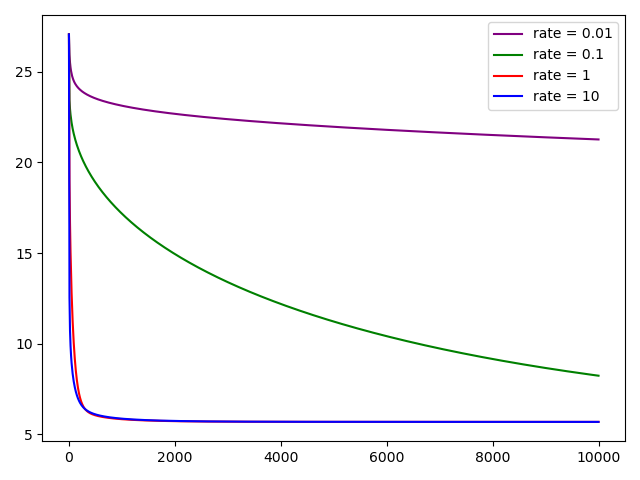
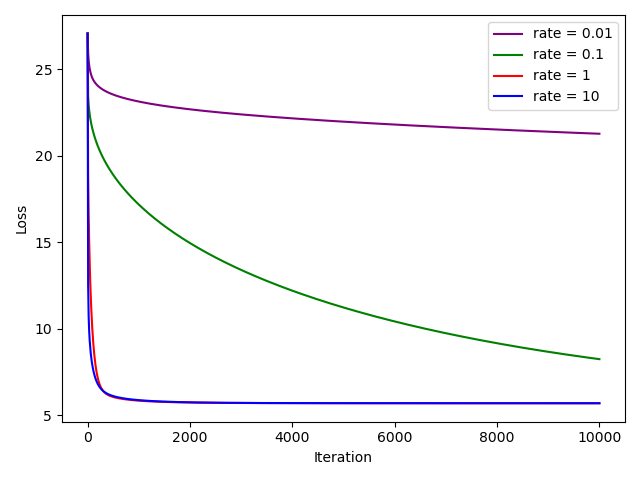
report code

diff --git a/hw1/train_Q1.py b/hw1/train_Q1.py
@@ -88,8 +88,8 @@ for i in range(4):
     loss = np.sqrt(np.sum(np.power(np.dot(x, w) - y, 2))/471/12)
     L.append(loss)
     plt.plot(range(0, iter_time+1, 10), L, color = color[i], label = "rate = " + str(learning_rate[i]))
-plt.xlabel = ("Iteration")
-plt.ylabel = ("Loss")
+plt.xlabel("Iteration")
+plt.ylabel("Loss")
 plt.legend()
 plt.tight_layout()
 plt.savefig('Q1.png')

diff --git a/hw3/test4.py b/hw3/test4.py
@@ -8,7 +8,7 @@ import pandas as pd
 from torch.utils.data import DataLoader, Dataset
 import time
 import sys
-#os.environ["CUDA_VISIBLE_DEVICES"] = '3'
+os.environ["CUDA_VISIBLE_DEVICES"] = '2'
 def readfile(path, label):
     # label 是一個 boolean variable，代表需不需要回傳 y 值
     image_dir = sorted(os.listdir(path))

diff --git a/hw3/test5.py b/hw3/test5.py
@@ -8,7 +8,7 @@ import pandas as pd
 from torch.utils.data import DataLoader, Dataset
 import time
 import sys
-#os.environ["CUDA_VISIBLE_DEVICES"] = '2'
+os.environ["CUDA_VISIBLE_DEVICES"] = '2'
 def readfile(path, label):
     # label 是一個 boolean variable，代表需不需要回傳 y 值
     image_dir = sorted(os.listdir(path))

diff --git a/hw3/test2.py b/hw3/test2.py
@@ -8,7 +8,7 @@ import pandas as pd
 from torch.utils.data import DataLoader, Dataset
 import time
 import sys
-
+os.environ["CUDA_VISIBLE_DEVICES"] = '2'
 def readfile(path, label):
     # label 是一個 boolean variable，代表需不需要回傳 y 值
     image_dir = sorted(os.listdir(path))

diff --git a/hw3/test3.py b/hw3/test3.py
@@ -8,7 +8,7 @@ import pandas as pd
 from torch.utils.data import DataLoader, Dataset
 import time
 import sys
-
+os.environ["CUDA_VISIBLE_DEVICES"] = '2'
 def readfile(path, label):
     # label 是一個 boolean variable，代表需不需要回傳 y 值
     image_dir = sorted(os.listdir(path))

diff --git a/hw4/train.py b/hw4/train.py
@@ -10,7 +10,7 @@ import os
 import argparse
 import sys
 import random
-#os.environ["CUDA_VISIBLE_DEVICES"] = '3'
+os.environ["CUDA_VISIBLE_DEVICES"] = '2'
 # 定義一些函式
 def fix_sentence(lines):       
     lines = [line.replace("can \' t", "can not") for line in lines]
